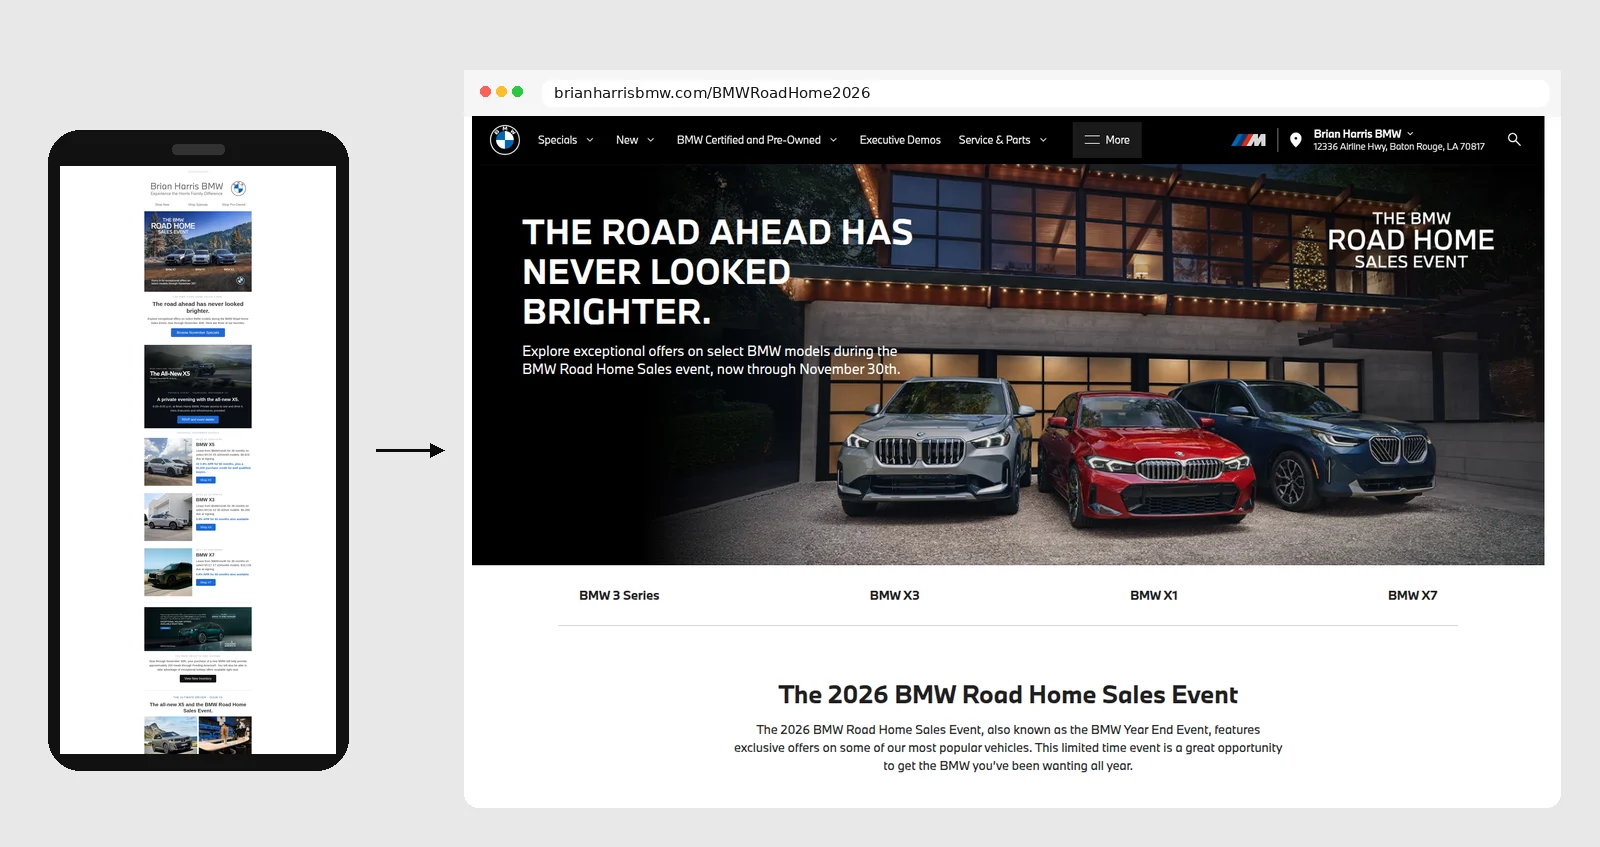
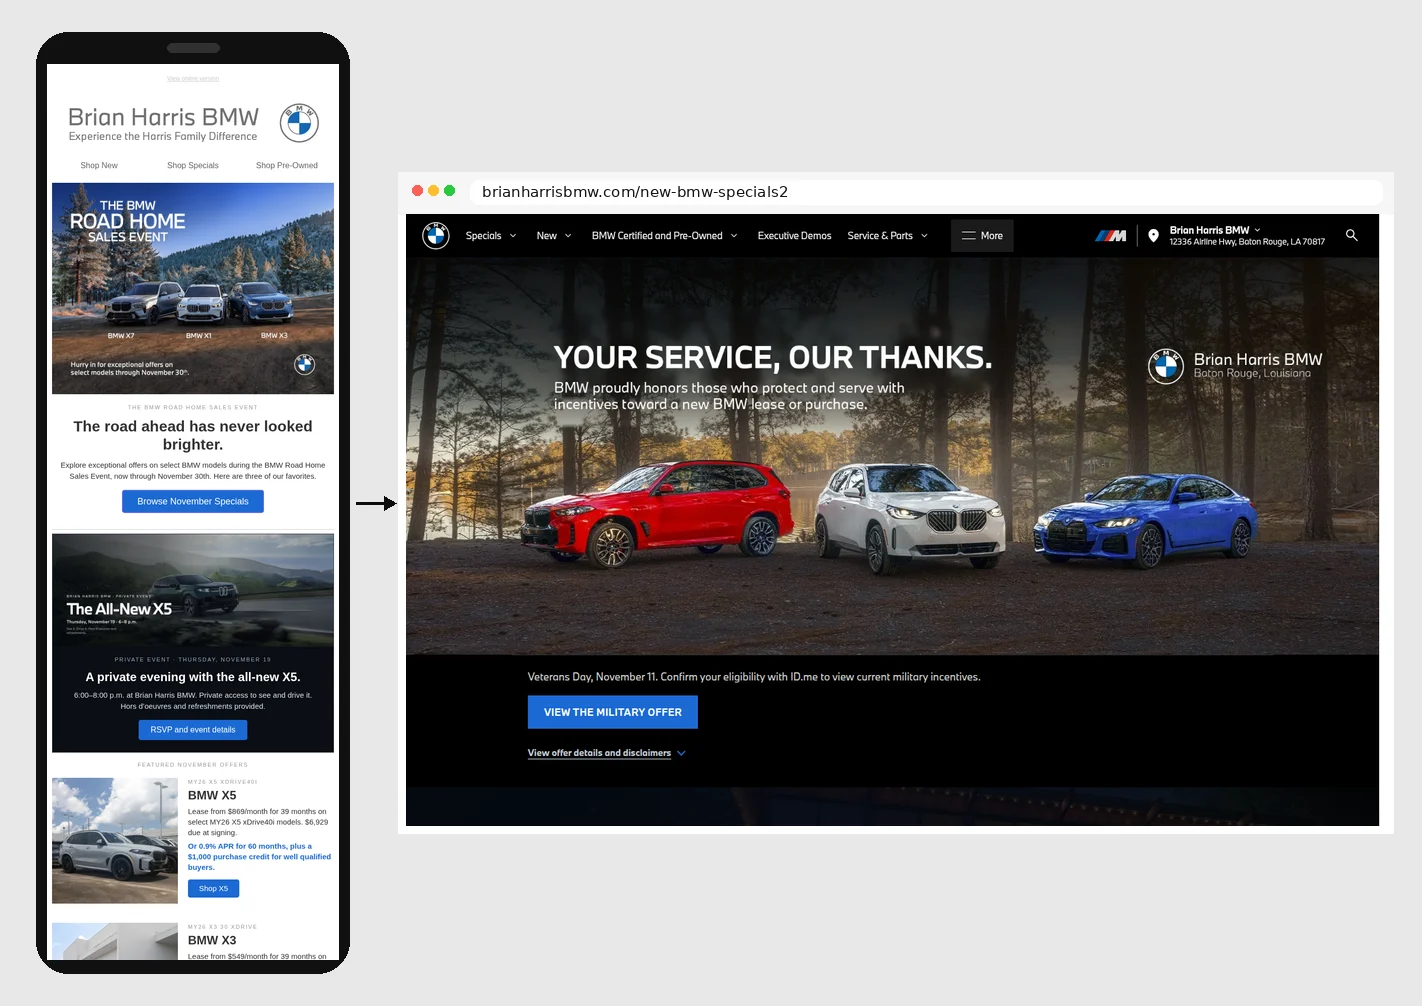
Point the email graphic at the November specials page.
The phone shows the top of the November email at full screen width, and the browser shows the specials page the email links to.

diff --git a/products-and-services.html b/products-and-services.html
@@ -137,8 +137,11 @@
         <li><p>A matching page on your site for every send</p></li>
       </ul>
       <figure class="ps-example">
-        <figcaption>Brian Harris BMW · November email → the matching page on the site</figcaption>
-        <img src="./public/images/content-engine/email-to-page.webp" alt="The Brian Harris BMW November email on a phone, and the matching Road Home page in a browser at brianharrisbmw.com/BMWRoadHome2026." width="1600" height="847" />
+        <figcaption>Brian Harris BMW · November email → the November specials page on the site</figcaption>
+        <picture>
+          <source media="(max-width: 900px)" srcset="./public/images/content-engine/email-to-page-mobile.webp?v=2" type="image/webp" />
+          <img src="./public/images/content-engine/email-to-page.webp?v=2" alt="The Brian Harris BMW November email on a phone, and the November specials page in a browser at brianharrisbmw.com/new-bmw-specials2." width="1422" height="1006" />
+        </picture>
       </figure>
       <div class="ps-examples">
         <figure class="ps-example">
